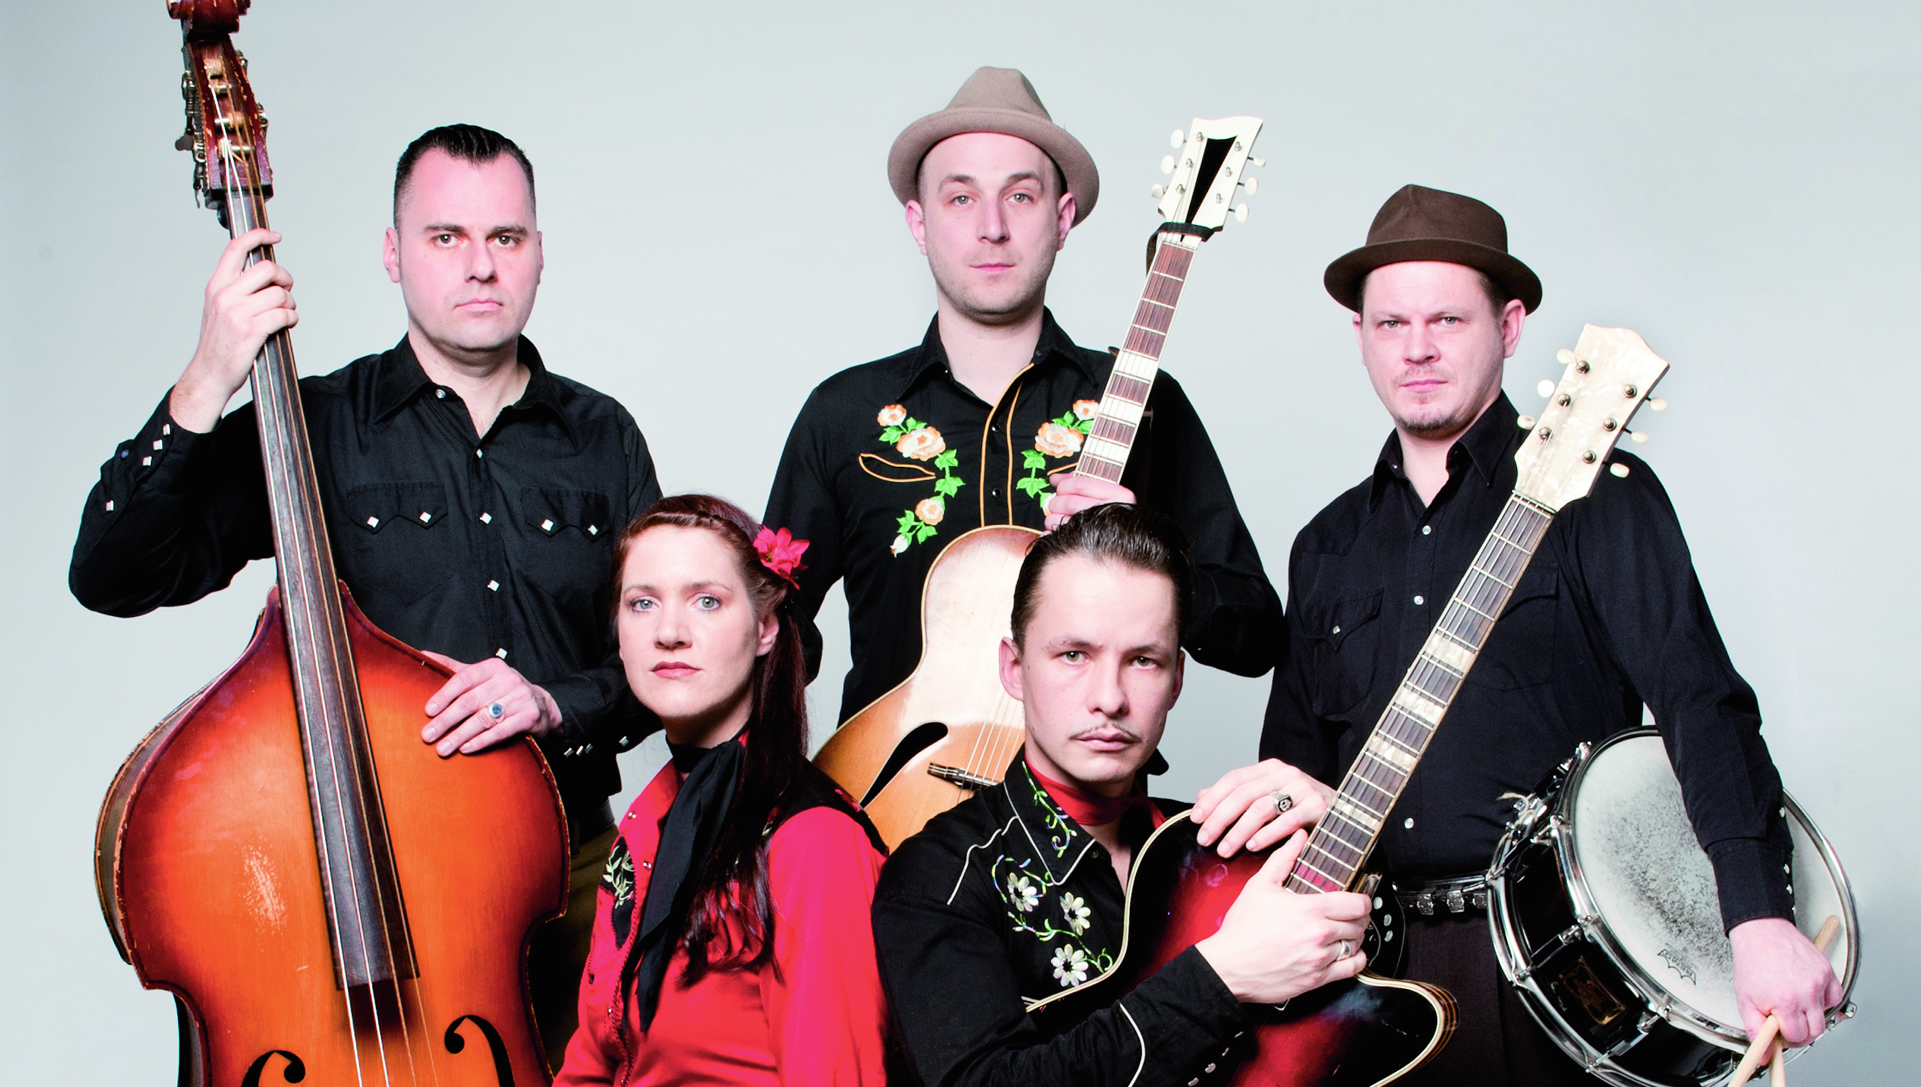
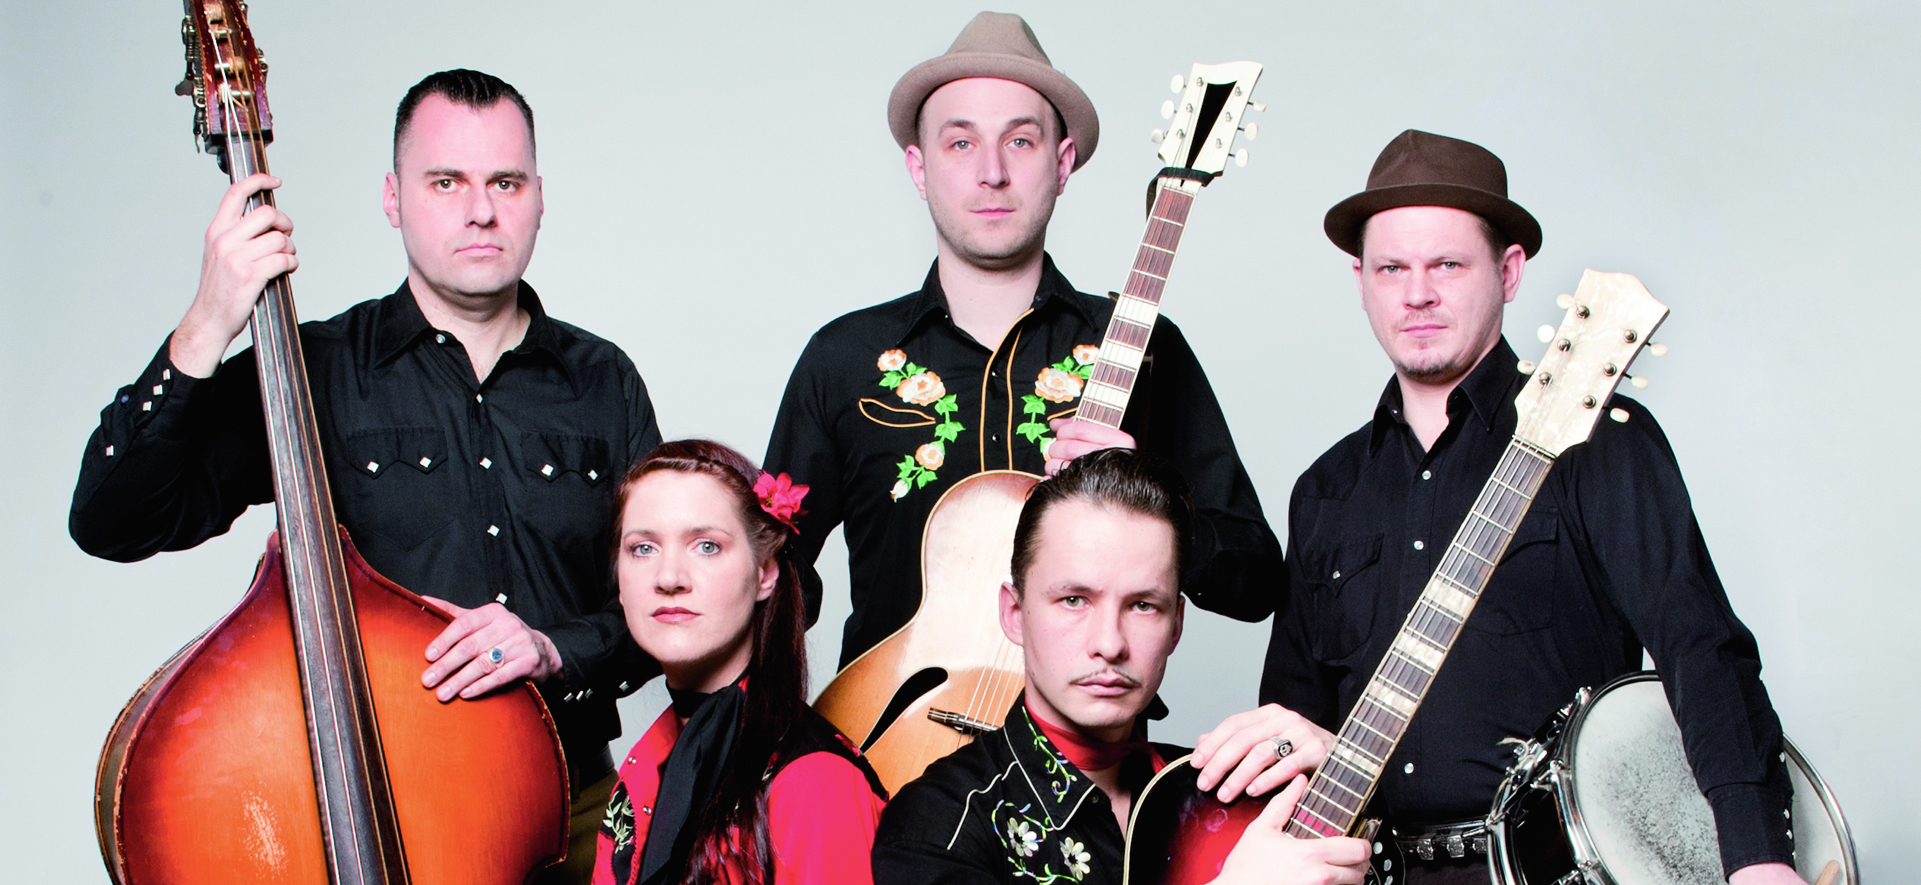
08_home
- alternative home section for mobile devices
- small header image

diff --git a/index.html b/index.html
@@ -71,8 +71,8 @@
     </nav>
 
     <!-- Home Section -->
-    <section id="home" class="home-section section header">
-        <div class="container hidden-sm hidden-xs">
+    <section id="home" class="home-section section header-lg hidden-sm hidden-xs">
+        <div class="container">
             <div class="row">
                 <div class="col-lg-12">
                     <h1 class="header-title">Dark Vatter</h1>
@@ -80,6 +80,9 @@
             </div>
         </div>
     </section>
+
+    <!-- alternative mobile device home section -->
+    <section id="home" class="home-section section header-sm hidden-lg hidden-md"></section>
 
     <!-- News Section -->
     <section id="news" class="news-section section">
@@ -198,7 +201,7 @@ Der Wortwitz und die Geschichten werden Dark Vatter so schnell nicht ausgehen. Z
                 <div class="col-lg-12">
                     <h1>Schnupper do ma rin was wa da so mach'n!</h1>
                     <div class="responsive-video">
-                        <iframe width="853" height="480" src="https://www.youtube.com/embed/videoseries?list=PLWbgNWq2k64ogYK0ZPpWjPqgooOSsWuyj" frameborder="0" allowfullscreen></iframe>
+                        <iframe width="853" src="https://www.youtube.com/embed/videoseries?list=PLWbgNWq2k64ogYK0ZPpWjPqgooOSsWuyj" frameborder="0" allowfullscreen></iframe>
                     </div>
                 </div>
             </div>

diff --git a/css/home.css b/css/home.css
@@ -1,14 +1,20 @@
 /* home css classes */
 
-.header {
-	background-image: url("../img/header-lg.jpg") no-repeat top center;
-	height: 965px;
+.header-lg {
+	background: url("../img/header-lg.jpg") no-repeat top center;
+	height: 855px;
+}
+
+.header-sm {
+	background: url("../img/header-sm.jpg") top center;
+	background-color: #AAA;
+	height: 800px;
 }
 
 .header-title {
-	font-size: 10em;
+	font-size: 9em;
 	color: white;
 	text-shadow: 0 0 0.2em black;
-	margin-top: 200px;
+	margin-top: 155px;
 	font-family: 'Bevan', cursive;
 }
